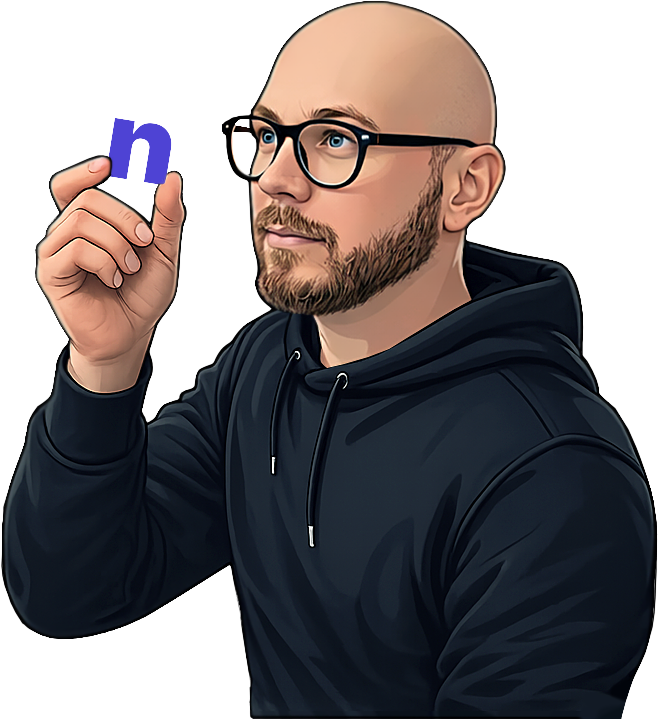
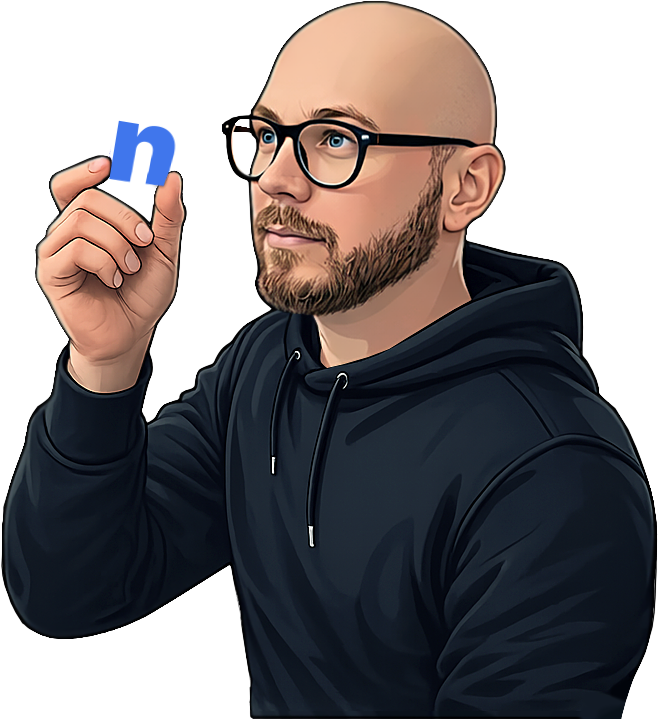
change of main acccent colors

Changed region(s): [[0.152, 0.153, 0.2736, 0.2754]]

diff --git a/index.html b/index.html
@@ -62,41 +62,41 @@
         <div class="ticker-track">
 
             <div class="ticker-set">
-                <span><img src="https://cdn.simpleicons.org/typescript/4e43d4" width="14" height="14"
+                <span><img src="https://cdn.simpleicons.org/typescript/4076ec" width="14" height="14"
                         alt="">TypeScript</span>
-                <span><img src="https://cdn.simpleicons.org/javascript/4e43d4" width="14" height="14"
+                <span><img src="https://cdn.simpleicons.org/javascript/4076ec" width="14" height="14"
                         alt="">JavaScript</span>
-                <span><img src="https://cdn.simpleicons.org/nodedotjs/4e43d4" width="14" height="14"
+                <span><img src="https://cdn.simpleicons.org/nodedotjs/4076ec" width="14" height="14"
                         alt="">Node.js</span>
-                <span><img src="https://cdn.simpleicons.org/postgresql/4e43d4" width="14" height="14"
+                <span><img src="https://cdn.simpleicons.org/postgresql/4076ec" width="14" height="14"
                         alt="">PostgreSQL</span>
-                <span><img src="https://cdn.simpleicons.org/react/4e43d4" width="14" height="14" alt="">React</span>
-                <span><img src="https://cdn.simpleicons.org/vite/4e43d4" width="14" height="14" alt="">Vite</span>
-                <span><img src="https://cdn.simpleicons.org/mongodb/4e43d4" width="14" height="14" alt="">MongoDB</span>
-                <span><img src="https://cdn.simpleicons.org/git/4e43d4" width="14" height="14" alt="">Git</span>
-                <span><img src="https://cdn.simpleicons.org/html5/4e43d4" width="14" height="14" alt="">HTML &amp;
+                <span><img src="https://cdn.simpleicons.org/react/4076ec" width="14" height="14" alt="">React</span>
+                <span><img src="https://cdn.simpleicons.org/vite/4076ec" width="14" height="14" alt="">Vite</span>
+                <span><img src="https://cdn.simpleicons.org/mongodb/4076ec" width="14" height="14" alt="">MongoDB</span>
+                <span><img src="https://cdn.simpleicons.org/git/4076ec" width="14" height="14" alt="">Git</span>
+                <span><img src="https://cdn.simpleicons.org/html5/4076ec" width="14" height="14" alt="">HTML &amp;
                     CSS</span>
-                <span><img src="https://cdn.simpleicons.org/express/4e43d4" width="14" height="14" alt="">Express</span>
-                <span><img src="https://cdn.simpleicons.org/github/4e43d4" width="14" height="14" alt="">GitHub</span>
+                <span><img src="https://cdn.simpleicons.org/express/4076ec" width="14" height="14" alt="">Express</span>
+                <span><img src="https://cdn.simpleicons.org/github/4076ec" width="14" height="14" alt="">GitHub</span>
             </div>
 
             <div class="ticker-set" aria-hidden="true">
-                <span><img src="https://cdn.simpleicons.org/typescript/4e43d4" width="14" height="14"
+                <span><img src="https://cdn.simpleicons.org/typescript/4076ec" width="14" height="14"
                         alt="">TypeScript</span>
-                <span><img src="https://cdn.simpleicons.org/javascript/4e43d4" width="14" height="14"
+                <span><img src="https://cdn.simpleicons.org/javascript/4076ec" width="14" height="14"
                         alt="">JavaScript</span>
-                <span><img src="https://cdn.simpleicons.org/nodedotjs/4e43d4" width="14" height="14"
+                <span><img src="https://cdn.simpleicons.org/nodedotjs/4076ec" width="14" height="14"
                         alt="">Node.js</span>
-                <span><img src="https://cdn.simpleicons.org/postgresql/4e43d4" width="14" height="14"
+                <span><img src="https://cdn.simpleicons.org/postgresql/4076ec" width="14" height="14"
                         alt="">PostgreSQL</span>
-                <span><img src="https://cdn.simpleicons.org/react/4e43d4" width="14" height="14" alt="">React</span>
-                <span><img src="https://cdn.simpleicons.org/vite/4e43d4" width="14" height="14" alt="">Vite</span>
-                <span><img src="https://cdn.simpleicons.org/mongodb/4e43d4" width="14" height="14" alt="">MongoDB</span>
-                <span><img src="https://cdn.simpleicons.org/git/4e43d4" width="14" height="14" alt="">Git</span>
-                <span><img src="https://cdn.simpleicons.org/html5/4e43d4" width="14" height="14" alt="">HTML &amp;
+                <span><img src="https://cdn.simpleicons.org/react/4076ec" width="14" height="14" alt="">React</span>
+                <span><img src="https://cdn.simpleicons.org/vite/4076ec" width="14" height="14" alt="">Vite</span>
+                <span><img src="https://cdn.simpleicons.org/mongodb/4076ec" width="14" height="14" alt="">MongoDB</span>
+                <span><img src="https://cdn.simpleicons.org/git/4076ec" width="14" height="14" alt="">Git</span>
+                <span><img src="https://cdn.simpleicons.org/html5/4076ec" width="14" height="14" alt="">HTML &amp;
                     CSS</span>
-                <span><img src="https://cdn.simpleicons.org/express/4e43d4" width="14" height="14" alt="">Express</span>
-                <span><img src="https://cdn.simpleicons.org/github/4e43d4" width="14" height="14" alt="">GitHub</span>
+                <span><img src="https://cdn.simpleicons.org/express/4076ec" width="14" height="14" alt="">Express</span>
+                <span><img src="https://cdn.simpleicons.org/github/4076ec" width="14" height="14" alt="">GitHub</span>
             </div>
 
         </div>

diff --git a/css/global.css b/css/global.css
@@ -22,14 +22,14 @@
     --panel: #e9eef8;
 
     /* === Text === */
-    --text: #1b2233;
+    --text: #454443;
     --text-muted: #49556e;
     --text-sub: #7b869d;
     --panel-text: #1b2233;
 
     /* === Accent === */
-    --accent: #6a5cff;
-    --accent-dk: #4e43d4;
+    --accent: #4076ec;
+    --accent-dk: #4076ec;
     --accent-soft: rgba(106, 92, 255, 0.08);
     --accent-border: rgba(106, 92, 255, 0.18);
 
